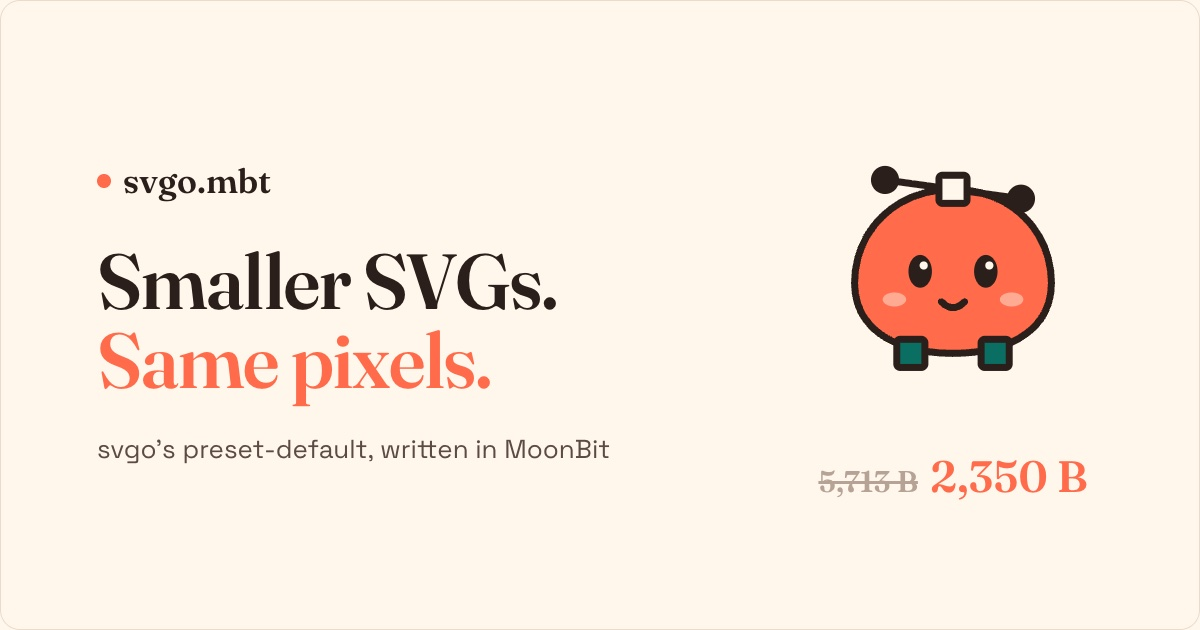
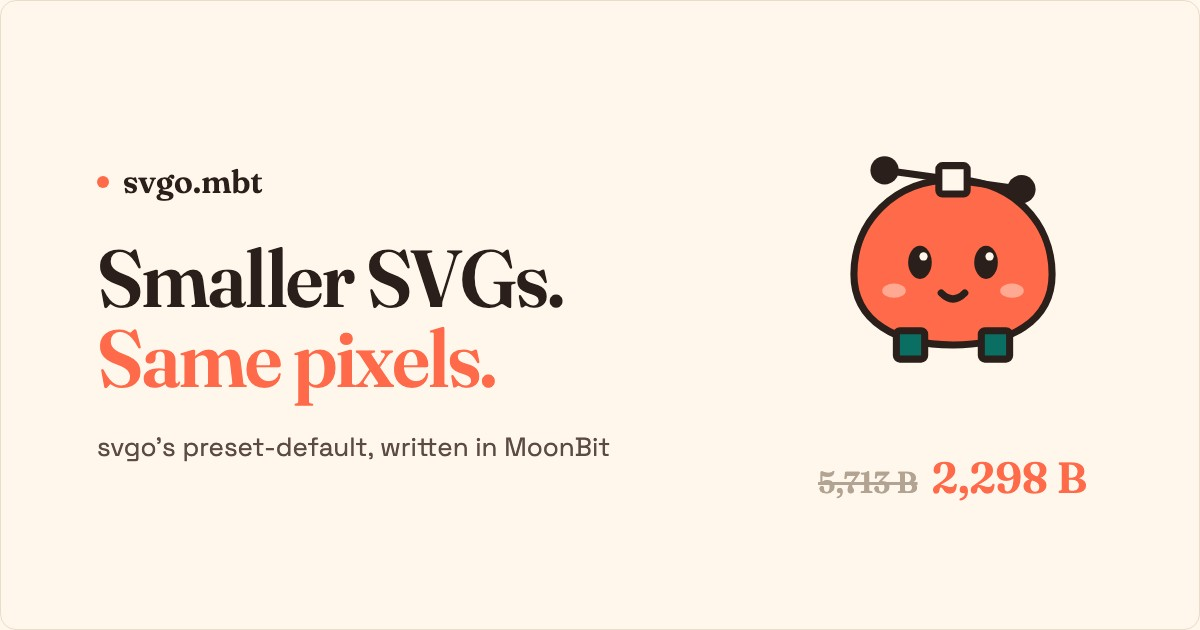
fix(minifyStyles): minify numbers in style attributes (#35)
* fix(minifyStyles): minify numbers in style attributes

Pack number, dimension and percentage tokens in declarations the way csso
does inside svgo's minifyStyles: drop a plus sign, leading and trailing
zeros, and the unit of a zero length outside flex and calc/min/max/clamp.
Strings, url(), var(), hashes, identifiers, custom properties and numbers
with an exponent are left alone, as are tokens glued to a neighbour, where
csso's rewrite could re-tokenize differently.

* docs(website): sample sizes after minifying style numbers

Minifying the numbers in style attributes shrinks Nib, the site's first sample, from
2,350 B to 2,298 B (still 0 differing pixels): the README, the social card and its alt
text say so. Two benchmark outputs lose a byte (inkscape-drawing 640 B, World map
46,699 B); only those sizes are updated in data.json, the timings are unchanged.

* test(minifyStyles): call the css package with its prefix in the new tests

The blackbox tests this change adds call the package unqualified, which the current
compiler warns about; they now use @css like the rest of the suite will.

---------

diff --git a/app/website/public/index.html b/app/website/public/index.html
@@ -14,12 +14,12 @@
 <meta property="og:image" content="https://perfectpan.github.io/svgo.mbt/og.jpg">
 <meta property="og:image:width" content="1200">
 <meta property="og:image:height" content="630">
-<meta property="og:image:alt" content="svgo.mbt: Smaller SVGs. Same pixels. The Nib mascot, 5,713 B struck through, 2,350 B">
+<meta property="og:image:alt" content="svgo.mbt: Smaller SVGs. Same pixels. The Nib mascot, 5,713 B struck through, 2,298 B">
 <meta name="twitter:card" content="summary_large_image">
 <meta name="twitter:title" content="svgo.mbt · SVG optimizer in MoonBit, shipped as WebAssembly">
 <meta name="twitter:image" content="https://perfectpan.github.io/svgo.mbt/og.jpg">
 <meta name="twitter:description" content="SVG optimizer written in MoonBit, 36 plugins: the 33 that run by default, in svgo's preset-default order, and 3 opt-in (moveGroupAttrsToElems, which svgo runs by default, removeDimensions and removeTitle). Compiled to WebAssembly for the browser, Node, Bun and Deno, and to a native CLI.">
-<meta name="twitter:image:alt" content="svgo.mbt: Smaller SVGs. Same pixels. The Nib mascot, 5,713 B struck through, 2,350 B">
+<meta name="twitter:image:alt" content="svgo.mbt: Smaller SVGs. Same pixels. The Nib mascot, 5,713 B struck through, 2,298 B">
 <link rel="icon" href="favicon.svg" type="image/svg+xml">
 <link rel="stylesheet" href="./style.css">
 <script>(function () { try { var h = document.documentElement; if (localStorage.getItem("svgo-theme") === "dark") h.dataset.theme = "dark"; var l = localStorage.getItem("svgo-lang"); if (l !== "en" && l !== "zh") l = (navigator.language || "en").toLowerCase().indexOf("zh") === 0 ? "zh" : "en"; h.lang = l; if (!matchMedia("(prefers-reduced-motion: reduce)").matches && "IntersectionObserver" in window) { h.classList.add("motion"); setTimeout(function () { if (!h.hasAttribute("data-motion-ready")) h.classList.remove("motion"); }, 4000); } } catch (e) {} })();</script>

diff --git a/svgo/README.mbt.md b/svgo/README.mbt.md
@@ -24,7 +24,7 @@ beyond sub-pixel precision effects on the benchmark corpus.
 
 Nib, the mascot above, is a path drawn with its anchor points showing, and a sample too: the copy
 on the website's first screen carries the metadata a vector editor leaves behind and shrinks from
-5,713 B to 2,350 B with the same pixels.
+5,713 B to 2,298 B with the same pixels.
 
 ## Quickstart
 

diff --git a/.changeset/minify-style-numbers.md b/.changeset/minify-style-numbers.md
@@ -1,0 +1,5 @@
+---
+"@rivus/svgo": patch
+---
+
+minifyStyles now packs numbers in `style` attributes and `<style>` rules the way svgo's csso does (`6.000000` → `6`, `0.450000` → `.45`, `0.0px` → `0`), so Inkscape-style exports come out as small as with svgo.
